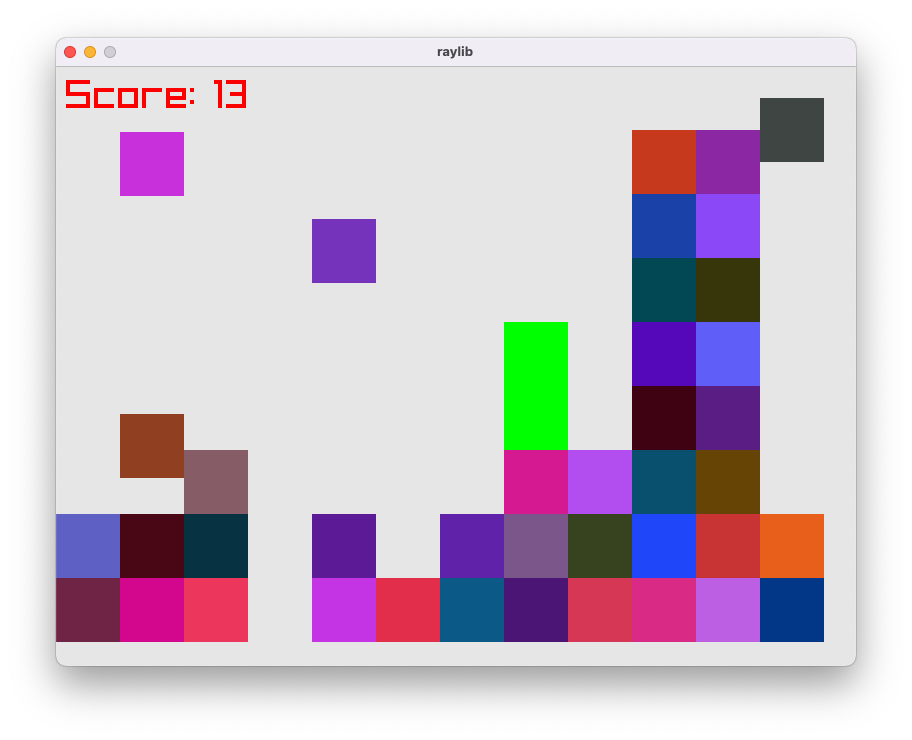
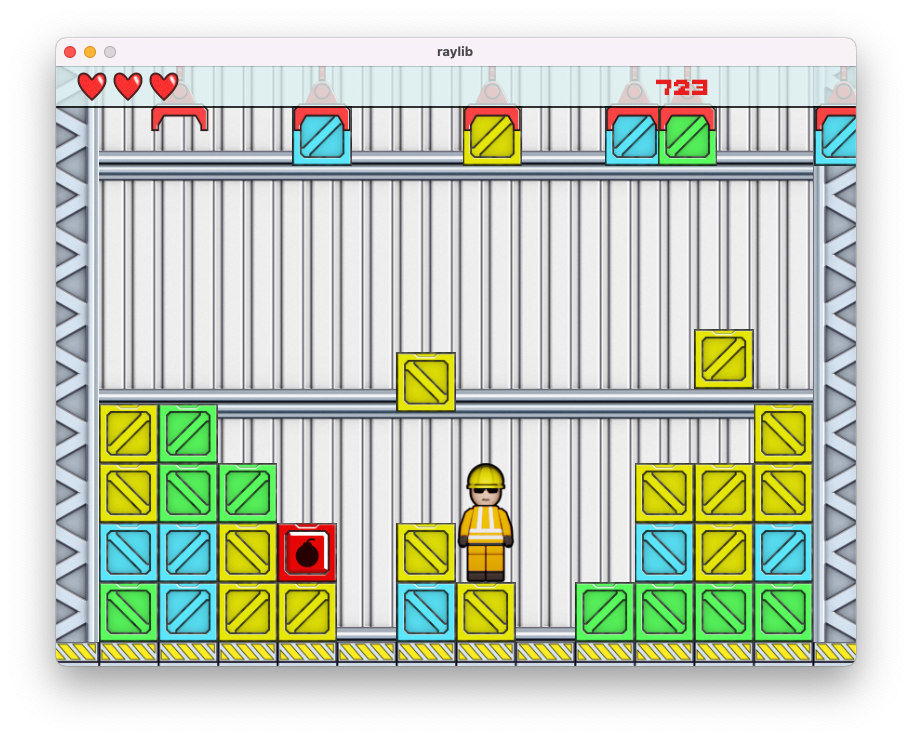
update README

diff --git a/README.md b/README.md
@@ -9,6 +9,17 @@ The language supports:
 * Loop/If statements.
 * Global constants.
 
+Version 2 of the game adds the following features:
+
+* Power-up crates - health crate, double speed crate and explosive crate. 
+* Difficulty mode selector.
+* Ability to pause the game without exiting.
+* Proper graphics and animations.
+* A menu displaying controls as well as in-game "how to play" tutorial.
+
+Bug reports are welcome!
+
+
 ![screenshot](https://github.com/mamysa/Langjam2025-StackingTrouble/blob/main/stacking-trouble-screenshot.png?raw=true)
 
 # Building/Running
@@ -39,12 +50,10 @@ CGO_ENABLED=1 go build
 ./compiler.exe stacking-trouble.bla
 ```
 
+# License
 
-# Known Bugs, etc
+Code is licensed under MIT. Art assets are licensed under CC-BY 4.0.
 
-* Doesn't implement Stack Attack fully - there were different crate power-ups (such as extra-health, TNT crate, etc) that I ran out of time to implement.
-* Missing game art. It is all just randomly coloured-boxes.
-* Compiler codebase is a bit of a mess and needs cleanup. 
+`ThaleahFat.ttf` font is created by Rick Hoppmann and is licensed under CC-BY 4.0. It can be acquired on [Itch.io](https://tinyworlds.itch.io/free-pixel-font-thaleah).
 
-Bug reports are welcome!
 
